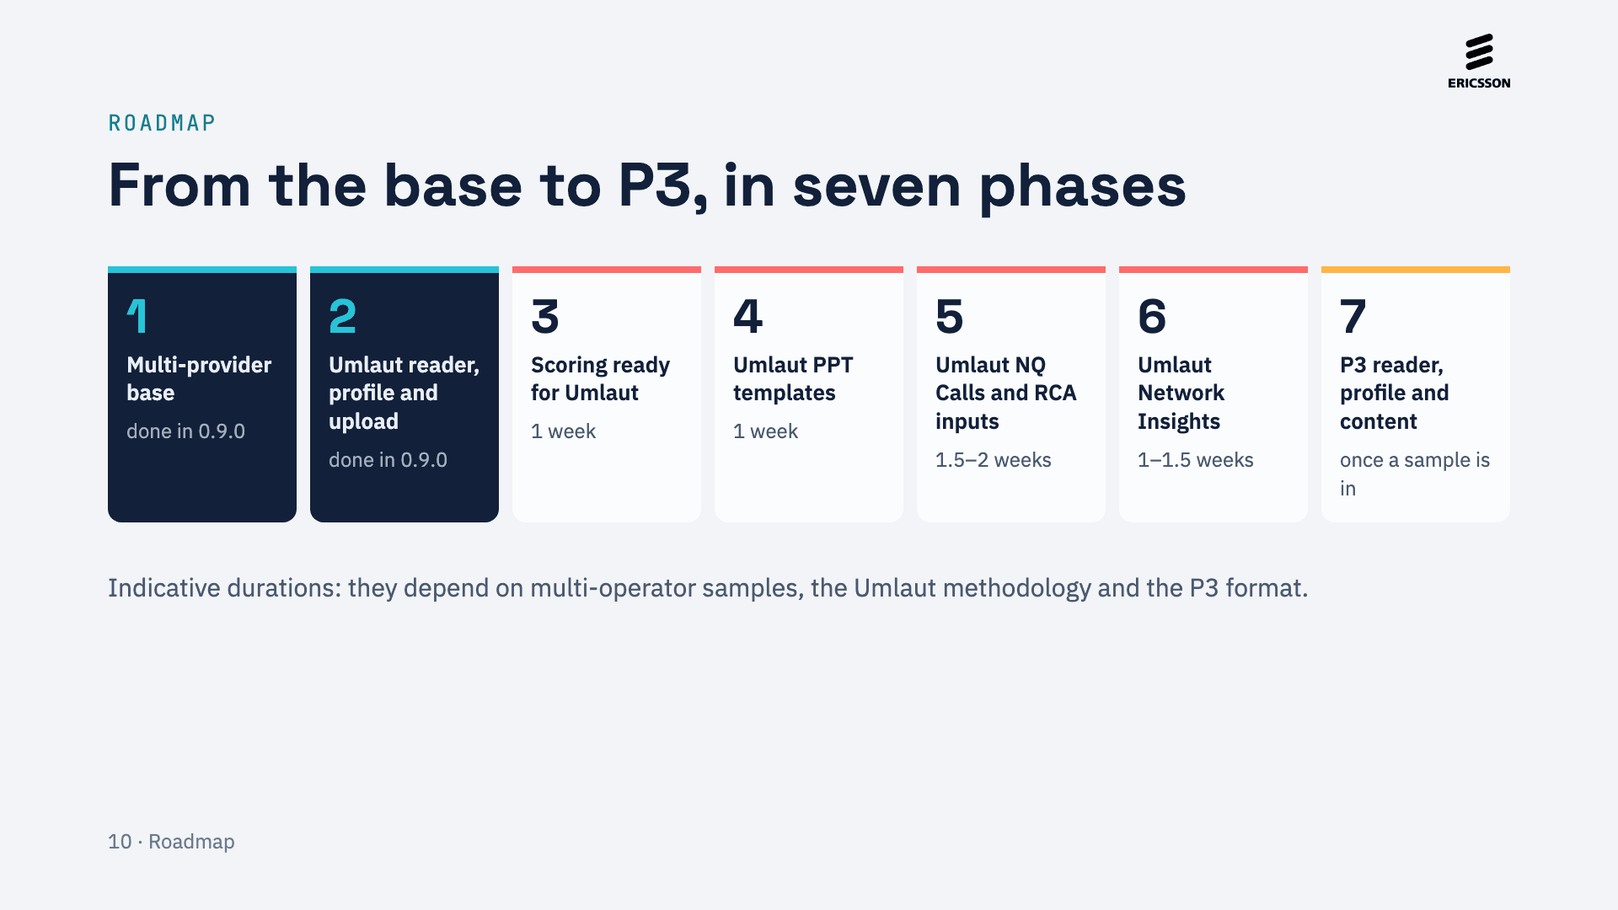
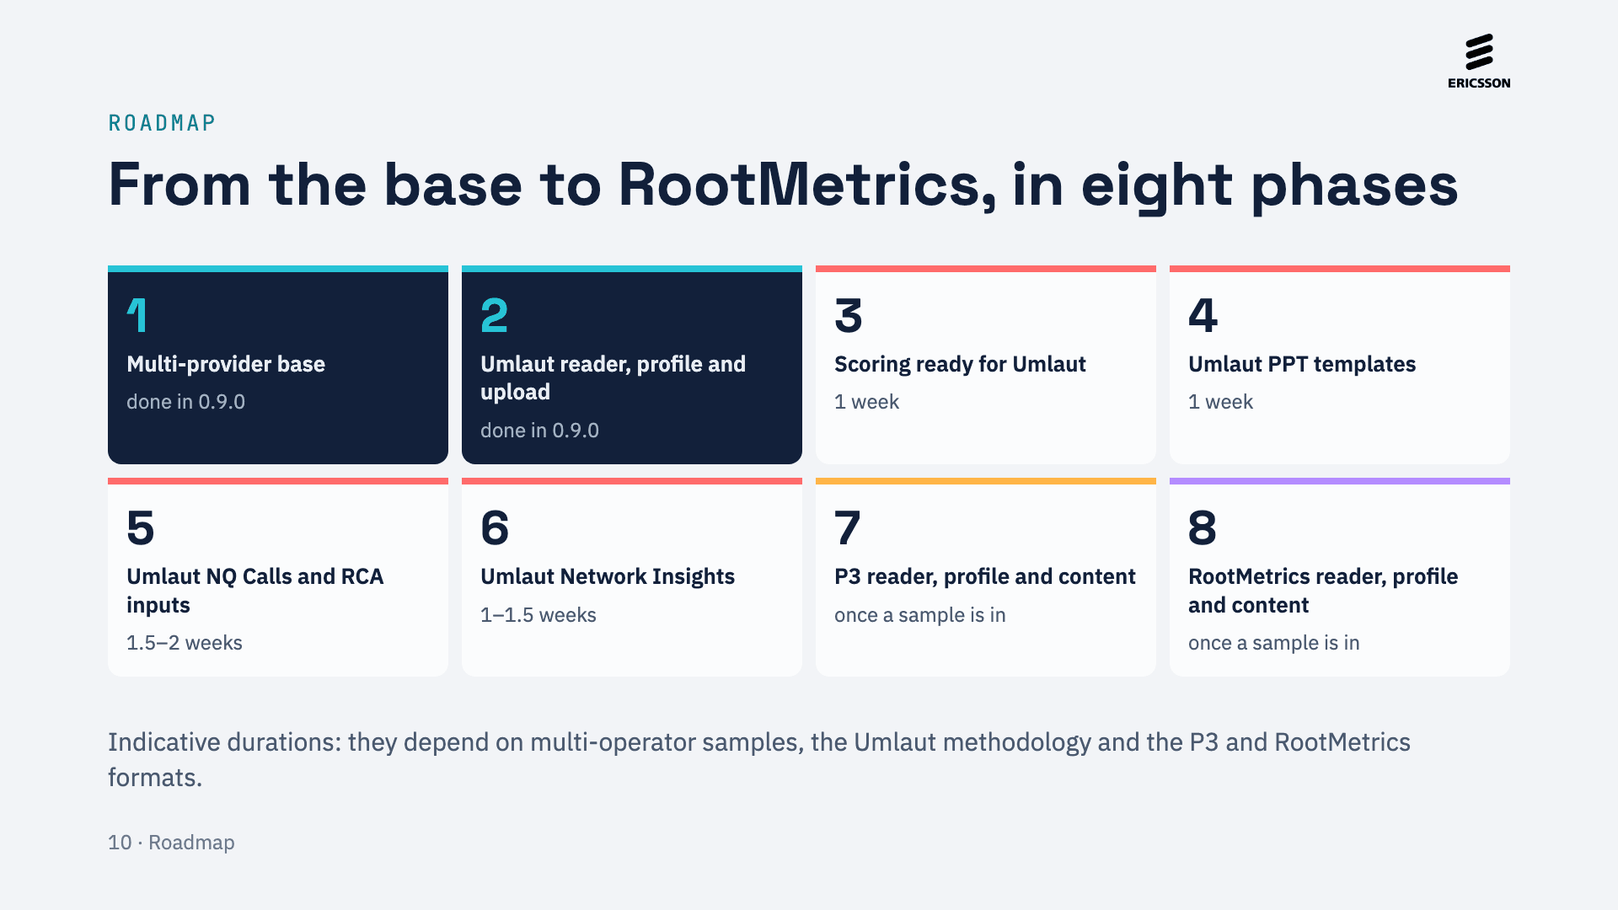
Add RootMetrics as a fourth benchmarking provider to the roadmap, the presentations and the Help
RootMetrics is planned after P3 for a future adaptation: the Benchmarking
Providers Roadmap deck shows four providers, an eighth phase and its CDR
samples among what is needed; the Roadmap and One-slider slides keep only
Umlaut CDRs under Next and list P3 and RootMetrics CDRs under Later; the
Benchmarking Providers, Roadmap and presentation chapters of the Help name it.

diff --git a/tools/presentations/build.js b/tools/presentations/build.js
@@ -1253,7 +1253,7 @@ async function roadmap(pres, files, masterName = 'CONTENT') {
     ] },
     { label: 'NEXT', color: K.blue, pin: 'TbRocket', x: 4.5, y: 4.45, card: [2.7, 5.02, 5.9, 1.52], columns: 2, items: [
       ['TbFlag', 'Germany pilot', 'First DE test campaign'],
-      ['TbArrowsExchange', 'Umlaut & P3 CDRs', 'Ingest & score both providers'],
+      ['TbArrowsExchange', 'Umlaut CDRs', 'Ingest & score with its own fields'],
       ['TbUsersGroup', 'Active Tests community', 'Their KPI & Scoring reports'],
       ['TbPhoneCheck', 'NQ Calls out of Beta', 'From Beta to every team'],
     ] },
@@ -1261,9 +1261,10 @@ async function roadmap(pres, files, masterName = 'CONTENT') {
       ['TbAntennaBars5', 'Network Insights', 'Improvements to the module'],
       ['TbMailForward', 'Automatic emails', 'Reports sent by email on their own'],
     ] },
-    { label: 'LATER', color: 'E07800', pin: 'TbClock', x: 10.7, y: 4.2, card: [8.95, 4.8, 3.5, 1.52], items: [
+    { label: 'LATER', color: 'E07800', pin: 'TbClock', x: 10.7, y: 4.2, card: [8.95, 4.8, 3.5, 1.98], items: [
       ['TbRoute', 'TEMS logs', 'Drive test logs and their reports'],
       ['TbHeartbeat', 'Health monitoring', 'Alerts & checks after each deploy'],
+      ['TbChartDots3', 'P3 & RootMetrics CDRs', 'The next benchmarking providers'],
     ] },
   ];
   for (const phase of phases) {
@@ -1295,10 +1296,11 @@ async function roadmap(pres, files, masterName = 'CONTENT') {
     + 'analytical caches, fast at any size; Tableau connected to the workspace database; and the Layer3 Logs, the parsed '
     + 'drive test logs of each campaign, whose signalling the maps of the Non-Qualified Calls, NQ Maps and the DT Analyzer RCA '
     + 'read. Next: a first pilot campaign in '
-    + 'Germany, the adaptation of the ingestion and scoring to Umlaut and P3 CDRs, the Active Tests community, so that the tool '
+    + 'Germany, the adaptation of the ingestion and scoring to Umlaut CDRs, the Active Tests community, so that the tool '
     + 'builds the KPI and Scoring reports they produce today, and Non-Qualified Calls out of Beta. Soon: improvements to '
-    + 'Network Insights and automatic emails. Later: TEMS logs with their reports, and health '
-    + 'monitoring: alerts on runs that take too long and automatic checks after every deployment. These are intentions, not '
+    + 'Network Insights and automatic emails. Later: TEMS logs with their reports, health '
+    + 'monitoring: alerts on runs that take too long and automatic checks after every deployment, and P3 and RootMetrics CDRs, '
+    + 'the next benchmarking providers, brought in with the same model as Umlaut. These are intentions, not '
     + 'dated commitments.');
 }
 
@@ -1403,9 +1405,9 @@ async function oneSlider(pres, files, masterName = 'SINGLE', sectionTitle = 'Dri
   label('ROADMAP', 8.15, 5.72);
   const milestones = [
     { x: 8.5, y: 6.36, color: '0C9B5B', phase: 'TODAY', pin: 'TbCircleCheck', text: `${MODULE_COUNT} modules, AI Assistant` },
-    { x: 9.75, y: 6.42, color: K.blue, phase: 'NEXT', pin: 'TbRocket', text: 'Germany, Umlaut & P3' },
+    { x: 9.75, y: 6.42, color: K.blue, phase: 'NEXT', pin: 'TbRocket', text: 'Germany, Umlaut' },
     { x: 11.0, y: 6.4, color: '8C60A8', phase: 'SOON', pin: 'TbTrendingUp', text: 'Network Insights, emails' },
-    { x: 12.2, y: 6.4, color: 'E07800', phase: 'LATER', pin: 'TbClock', text: 'TEMS logs, health' },
+    { x: 12.2, y: 6.4, color: 'E07800', phase: 'LATER', pin: 'TbClock', text: 'TEMS, health, P3, RootMetrics' },
   ];
   for (const milestone of milestones) {
     text(slide, milestone.phase, { x: milestone.x - 0.6, y: 6.0, w: 1.2, h: 0.2, fontSize: 9.5, bold: true, color: milestone.color, align: 'center', charSpacing: 1 });
@@ -1420,8 +1422,8 @@ async function oneSlider(pres, files, masterName = 'SINGLE', sectionTitle = 'Dri
     + 'benchmarking, the NQ team, troubleshooting and technical and executive reporting, on an enterprise platform on AWS with '
     + `roles, isolated workspaces, automated backups, a Ticket Center, a ${STATS.chapters}-chapter Help and ${STATS.tests} `
     + 'automated tests. Roadmap: today the columnar store on DuckDB, Tableau connected, the AI Assistant and GenAI slide comments and the Layer3 '
-    + 'Logs on the maps and the RCA of the Non-Qualified Calls; next the Germany pilot, Umlaut and P3 CDRs and the Active '
-    + 'Tests community; then Network Insights and automatic emails; later TEMS logs and health monitoring.');
+    + 'Logs on the maps and the RCA of the Non-Qualified Calls; next the Germany pilot, Umlaut CDRs and the Active '
+    + 'Tests community; then Network Insights and automatic emails; later TEMS logs, health monitoring and P3 and RootMetrics CDRs.');
 }
 
 // The colours and fonts of the theme of a written deck (pptxgenjs writes Office's own).
@@ -1443,9 +1445,9 @@ async function applyTheme(file, theme) {
 // ------------------------------------------------------------------------------------- decks of their own design
 // Decks in a design of their own: a picture of each slide and slides.json with their order, section, title and speaker
 // notes. benchmarking-providers/ keeps those of the adaptation of the tool to the CDRs of benchmarking providers other than
-// NetCheck (Umlaut first, then P3), with the Ericsson logo at the top right; module_decks.js draws the others when the
-// presentations are generated: the deck of every main module from the content.js of its folder, in the order of its
-// tabs, and the DT Analyzer RCA of Non-Qualified Calls from its slides.html.
+// NetCheck (Umlaut first, then P3 and RootMetrics), with the Ericsson logo at the top right; module_decks.js draws the
+// others when the presentations are generated: the deck of every main module from the content.js of its folder, in the
+// order of its tabs, and the DT Analyzer RCA of Non-Qualified Calls from its slides.html.
 const { DECKS: MODULE_DECK_IDS, DRAWN, draw } = require('./module_decks.js');
 
 function imageDeck(dir) {
@@ -1533,11 +1535,11 @@ function presentationsOf(decks) {
       description: 'The most important of the tool in a single slide: figures, modules, teams, platform and what comes next.',
       sections: [{ title: 'In one slide', slides: ['DriveTest Analyzer in one slide'] }] },
     { id: 'roadmap', title: 'DriveTest Analyzer — Roadmap', file: 'roadmap.pptx', download: 'DriveTest Analyzer - Roadmap.pptx',
-      description: 'What comes next: Umlaut CDRs, the Active Tests community, scale-out and speed on AWS, PostgreSQL and health monitoring.',
+      description: 'What comes next: Umlaut, P3 and RootMetrics CDRs, the Active Tests community, scale-out and speed on AWS, PostgreSQL and health monitoring.',
       sections: [{ title: 'Roadmap', slides: ['Roadmap — what comes next'] }] },
     { id: 'benchmarking-providers', title: decks['benchmarking-providers'].title, file: 'benchmarking-providers.pptx', drawn: true,
       download: 'DriveTest Analyzer - Benchmarking Providers Roadmap.pptx',
-      description: 'How the tool is being adapted to Umlaut and P3 CDRs and the status of each phase, how it is built inside and how it is deployed in the cloud.',
+      description: 'How the tool is being adapted to Umlaut, P3 and RootMetrics CDRs and the status of each phase, how it is built inside and how it is deployed in the cloud.',
       sections: imageSections(decks['benchmarking-providers']) },
     ...MODULE_DECK_IDS.flatMap((id) => [
       { id, title: decks[id].title, file: `${id}.pptx`, drawn: true, download: `DriveTest Analyzer - ${decks[id].name}.pptx`,

diff --git a/help/help.md b/help/help.md
@@ -17,9 +17,9 @@ Present DriveTest Analyzer with its presentations:
 
 - **Overview**, the complete deck: the tool, the teams it serves, its architecture and its platform, a slide for each module in the order of their tabs (two for Scoring & GAP Analysis) and the roadmap, closing with the one-slider.
 - **Architecture**, on two slides: the architecture of the solution, from the inputs the teams upload (CDRs, Network Inventories, Multivendor Mapping, Geospatial, Layer3 Logs and the Ericsson RCA results) through the server that processes, stores and analyses them to the web app, the reports and the emails, with the services outside the server (AI engine, map services and other DT Analyzer servers); and that of the DT Analyzer RCA, from the CDR to the Selected Cause: what it reads, its rules engine and results, the other RCA sources of the recommendation with their weights, where its results go and when it runs.
-- **Benchmarking Providers Roadmap**, in the design of its own deck: how the tool is being adapted to Umlaut and P3 CDRs and the status of each phase, how it is built inside and how it is deployed in the cloud (see [Benchmarking Providers](benchmarking-providers.md)).
+- **Benchmarking Providers Roadmap**, in the design of its own deck: how the tool is being adapted to Umlaut, P3 and RootMetrics CDRs and the status of each phase, how it is built inside and how it is deployed in the cloud (see [Benchmarking Providers](benchmarking-providers.md)).
 - **One-slider**, on a single slide: the most important of the tool, with its figures, modules, teams, platform and what comes next.
-- **Roadmap**, on a single slide: what the tool brings today, such as the AI Assistant, the columnar store on DuckDB, Tableau connected to the workspace, slide comments written by GenAI and the Layer3 Logs, and what comes next, such as the Germany pilot, Umlaut and P3 CDRs, the Active Tests community, Network Insights improvements, automatic emails, TEMS logs and health monitoring.
+- **Roadmap**, on a single slide: what the tool brings today, such as the AI Assistant, the columnar store on DuckDB, Tableau connected to the workspace, slide comments written by GenAI and the Layer3 Logs, and what comes next, such as the Germany pilot, Umlaut CDRs, the Active Tests community, Network Insights improvements, automatic emails, TEMS logs, health monitoring and P3 and RootMetrics CDRs.
 
 Select a presentation to open it in the slide viewer (its slides on the left and, below the slide, the zoom buttons and **▶ Slideshow**, the arrows of the previous and next slide, **Close** and **Download PowerPoint**; the wheel and the arrow keys also change slide, Ctrl/Cmd+wheel zooms and Escape closes it; on a phone or tablet, swipe the slide to change it, pinch it to zoom and double-tap it for the whole slide, and the viewer fits the part of the screen the browser leaves visible, with the arrows of the slides first), play it full screen with **▶ Slideshow**, choosing the seconds per slide and the transition, or download it with **Download PowerPoint**. **Copy link**, on each card and beside **Close** in the viewer, copies the short link of the presentation (in the viewer, of the slide shown), such as `/presentations/full-presentation?slide=3`, to send it: opening it opens the presentation at that slide in the slide viewer of [Product Presentations](presentations.md), also without signing in. The link has the **Public address** of the server when [Application Config](app-config.md) has one, otherwise the address the application was opened with. Where the link is shared (WhatsApp, Teams, Slack, Outlook…), its preview shows the title of the presentation, its description and the picture of that slide (the link of [Product Presentations](presentations.md), the cover of the Full Presentation), when the app can reach the server; WhatsApp on Android opens no link with an IP address (nor shows its preview), so give the server a name and save it as its public address. While a presentation is open, the address of the page is that link too. The server generates every presentation, with the pictures of its slides, always in the background, so the application never waits for them: at its start when one is missing (until it is ready, the Help says it is coming), again when their figures or the generator change, and on demand with **Regenerate Presentations** in [Super Admin → Presentations](super-admin.md#presentations). The figures of the Overview, the One-slider and the Roadmap are live: those of the workspaces chosen there.
 
@@ -93,7 +93,7 @@ full-presentation
 | Managing the PPT Templates of a workspace | [PPT Designer → PPT Templates](ppt-designer.md#ppt-templates) |
 | Reviewing application and workspace activity | [App Logs](app-logs.md) |
 | Presenting the tool to an audience | [Presentations](#presentations) |
-| Following the adaptation to Umlaut and P3 CDRs | [Benchmarking Providers](benchmarking-providers.md) |
+| Following the adaptation to Umlaut, P3 and RootMetrics CDRs | [Benchmarking Providers](benchmarking-providers.md) |
 
 ## Documentation map
 
@@ -119,7 +119,7 @@ full-presentation
 - [Super Admin](super-admin.md) — users and their access, Interface Settings and databases.
 - [Project Structure](project-structure.md) — source/browser layers, database ownership, persistent storage, caches and generated output.
 - [Roadmap](roadmap.md) — current limitations and planned work, also as a presentation.
-- [Benchmarking Providers](benchmarking-providers.md) — the adaptation to Umlaut and P3 CDRs: its status and the multi-provider model, also as a presentation, with the Umlaut CDR Compatibility and P3 CDR Compatibility reports below it.
+- [Benchmarking Providers](benchmarking-providers.md) — the adaptation to Umlaut, P3 and RootMetrics CDRs: its status and the multi-provider model, also as a presentation, with the Umlaut CDR Compatibility and P3 CDR Compatibility reports below it.
 
 ## Fast troubleshooting
 

diff --git a/help/presentations.md b/help/presentations.md
@@ -8,9 +8,9 @@ Present DriveTest Analyzer with its presentations:
 
 - **Overview**, the complete deck: the tool, the teams it serves, its architecture and its platform, a slide for each module in the order of their tabs (two for Scoring & GAP Analysis) and the roadmap, closing with the one-slider.
 - **Architecture**, on two slides: the architecture of the solution, from the inputs the teams upload (CDRs, Network Inventories, Multivendor Mapping, Geospatial, Layer3 Logs and the Ericsson RCA results) through the server that processes, stores and analyses them to the web app, the reports and the emails, with the services outside the server (AI engine, map services and other DT Analyzer servers); and that of the DT Analyzer RCA, from the CDR to the Selected Cause: what it reads, its rules engine and results, the other RCA sources of the recommendation with their weights, where its results go and when it runs.
-- **Benchmarking Providers Roadmap**, in the design of its own deck: how the tool is being adapted to Umlaut and P3 CDRs and the status of each phase, how it is built inside and how it is deployed in the cloud (see [Benchmarking Providers](benchmarking-providers.md)).
+- **Benchmarking Providers Roadmap**, in the design of its own deck: how the tool is being adapted to Umlaut, P3 and RootMetrics CDRs and the status of each phase, how it is built inside and how it is deployed in the cloud (see [Benchmarking Providers](benchmarking-providers.md)).
 - **One-slider**, on a single slide: the most important of the tool, with its figures, modules, teams, platform and what comes next.
-- **Roadmap**, on a single slide: what the tool brings today, such as the AI Assistant, the columnar store on DuckDB, Tableau connected to the workspace, slide comments written by GenAI and the Layer3 Logs, and what comes next, such as the Germany pilot, Umlaut and P3 CDRs, the Active Tests community, Network Insights improvements, automatic emails, TEMS logs and health monitoring.
+- **Roadmap**, on a single slide: what the tool brings today, such as the AI Assistant, the columnar store on DuckDB, Tableau connected to the workspace, slide comments written by GenAI and the Layer3 Logs, and what comes next, such as the Germany pilot, Umlaut CDRs, the Active Tests community, Network Insights improvements, automatic emails, TEMS logs, health monitoring and P3 and RootMetrics CDRs.
 
 Select a presentation to open it in the slide viewer (its slides on the left and, below the slide, the zoom buttons and **▶ Slideshow**, the arrows of the previous and next slide, **Close** and **Download PowerPoint**; the wheel and the arrow keys also change slide, Ctrl/Cmd+wheel zooms and Escape closes it; on a phone or tablet, swipe the slide to change it, pinch it to zoom and double-tap it for the whole slide, and the viewer fits the part of the screen the browser leaves visible, with the arrows of the slides first), play it full screen with **▶ Slideshow**, choosing the seconds per slide and the transition, or download it with **Download PowerPoint**. **Copy link**, on each card and beside **Close** in the viewer, copies the short link of the presentation (in the viewer, of the slide shown), such as `/presentations/full-presentation?slide=3`, to send it: opening it opens the presentation at that slide in the slide viewer of this chapter, also without signing in. The link has the **Public address** of the server when [Application Config](app-config.md) has one, otherwise the address the application was opened with. Where the link is shared (WhatsApp, Teams, Slack, Outlook…), its preview shows the title of the presentation, its description and the picture of that slide (the link of this chapter, the cover of the Full Presentation), when the app can reach the server; WhatsApp on Android opens no link with an IP address (nor shows its preview), so give the server a name and save it as its public address. While a presentation is open, the address of the page is that link too. The server generates every presentation, with the pictures of its slides, always in the background, so the application never waits for them: at its start when one is missing (until it is ready, the Help says it is coming), again when their figures or the generator change, and on demand with **Regenerate Presentations** in [Super Admin → Presentations](super-admin.md#presentations). The figures of the Overview, the One-slider and the Roadmap are live: those of the workspaces chosen there.
 

diff --git a/help/benchmarking-providers.md b/help/benchmarking-providers.md
@@ -1,9 +1,9 @@
 # Benchmarking providers
 
-DriveTest Analyzer was built for the CDRs of NetCheck. It is being adapted to the CDRs of other benchmarking providers, Umlaut first and then P3, without losing any feature and without translating their CDRs into NetCheck names. This chapter describes the status of that adaptation and the model it follows; the compatibility report of each provider, below it in Help Navigation, compares its CDRs with NetCheck CDRs.
+DriveTest Analyzer was built for the CDRs of NetCheck. It is being adapted to the CDRs of other benchmarking providers, Umlaut first, then P3 and later RootMetrics, without losing any feature and without translating their CDRs into NetCheck names. This chapter describes the status of that adaptation and the model it follows; the compatibility report of each provider, below it in Help Navigation, compares its CDRs with NetCheck CDRs.
 
 > [!NOTE]
-> **Available versus planned.** Today every workspace processes NetCheck CDRs. **Umlaut CDR** and **P3 CDR** appear as *coming soon* in the [CDR type](workspace-config.md#cdr-type) of a workspace until they are supported. The compatibility reports describe planned work, not features of the current release.
+> **Available versus planned.** Today every workspace processes NetCheck CDRs. **Umlaut CDR** and **P3 CDR** appear as *coming soon* in the [CDR type](workspace-config.md#cdr-type) of a workspace until they are supported; **RootMetrics** CDRs are planned after P3 and are not listed yet. The compatibility reports describe planned work, not features of the current release.
 
 ## In this guide
 
@@ -24,7 +24,7 @@ benchmarking-providers
 
 ## Adaptation status
 
-The adaptation is planned in seven phases. The durations are indicative: they depend on multi-operator samples, the Umlaut Scoring methodology and the P3 format.
+The adaptation is planned in eight phases. The durations are indicative: they depend on multi-operator samples, the Umlaut Scoring methodology and the P3 and RootMetrics formats.
 
 | Phase | Scope | Status |
 | --- | --- | --- |
@@ -35,6 +35,7 @@ The adaptation is planned in seven phases. The durations are indicative: they de
 | 5. Non-Qualified Calls and RCA | NQ = Qualifier NOT QUALIFIED, an Umlaut call key, the Umlaut values of the DT Analyzer RCA (available in every workspace) and the Ericsson RCA by the provider's call key. | Planned · 1.5–2 weeks |
 | 6. Umlaut Network Insights | The radio of the calls from their samples, NR cells by PCI + ARFCN + distance, MIMO rank and bandwidths. | Planned · 1–1.5 weeks |
 | 7. P3 | The P3 reader, profile and content, with the same model. | Once a P3 sample is available |
+| 8. RootMetrics | The RootMetrics reader, profile and content, with the same model, and its own Scoring methodology. | Once a RootMetrics sample is available |
 
 Phase 1 is available now and changes nothing for NetCheck workspaces:
 
@@ -100,5 +101,7 @@ Each provider has a compatibility report of its own, listed below Benchmarking P
 
 - [Umlaut CDR Compatibility](/documents/reports/umlaut-cdr-compatibility): the analysis of a sample Umlaut export. It compares the Umlaut files, fields and values with NetCheck CDRs: the equivalent of each of the 109 groups of NetCheck fields the tool uses (84 of them have the same data, the same data with another unit or values, or an exact calculation), what each module will have with Umlaut CDRs and what it will not, the Scoring KPIs with equivalent data, the limits of full compatibility and the open questions.
 - [P3 CDR Compatibility](/documents/reports/p3-cdr-compatibility): pending a sample of P3 CDRs; it tells what is known, what the analysis will cover and what is needed.
+
+RootMetrics will have its own report once a sample of its CDRs is available.
 
 See the [Roadmap](roadmap.md) for the other planned work.

diff --git a/help/roadmap.md b/help/roadmap.md
@@ -53,9 +53,9 @@ roadmap
 ## Planned product work
 
 - Germany pilot: a first test campaign in Germany.
-- Umlaut and P3 CDRs: workspaces of each provider that keep its field names and values, with its own Scoring methodologies, PPT templates and Non-Qualified Calls rules. [Benchmarking Providers](benchmarking-providers.md) describes the status of each phase and what each module will have with Umlaut CDRs.
+- Umlaut CDRs first, and later P3 and RootMetrics CDRs: workspaces of each provider that keep its field names and values, with its own Scoring methodologies, PPT templates and Non-Qualified Calls rules. [Benchmarking Providers](benchmarking-providers.md) describes the status of each phase and what each module will have with Umlaut CDRs.
 - Active Tests community: build with the tool the KPI and Scoring reports it generates today.
-- Non-Qualified Calls: confirm the NQ definition (currently every result other than Completed in NetCheck CDRs; in Umlaut CDRs, the calls and tests marked NOT QUALIFIED), the Umlaut and P3 values of the DT Analyzer RCA, and take the module out of Alpha.
+- Non-Qualified Calls: confirm the NQ definition (currently every result other than Completed in NetCheck CDRs; in Umlaut CDRs, the calls and tests marked NOT QUALIFIED), the Umlaut, P3 and RootMetrics values of the DT Analyzer RCA, and take the module out of Alpha.
 - Configuration datasets ingestion to enrich CDR dataset and combine them to extract combined info using SQL Queries or Report Templates.
 - Additional validated KPI/chart contracts.
 - Network Insights improvements.

diff --git a/CHANGELOG.md b/CHANGELOG.md
@@ -22,6 +22,7 @@
 - **Scoring & GAP Analysis — Context filters kept (ticket #114):** the Calculation panel keeps and restores the **Operator_Vendor**, **Vendor_Operator** and **Cluster** filters too (they came back empty, so a later calculation included every vendor), each user keeps their own panel selection in the workspace instead of sharing one, a note under the Context filters explains how to score some vendors of one operator, and the App Event of each calculation records its filters, Split by, GAP reference and methodology.
 
 #### 📚 Documentation:
+- **Benchmarking Providers and Roadmap — RootMetrics:** RootMetrics is a fourth benchmarking provider, planned after P3 for a future adaptation: the Benchmarking Providers chapter and the Benchmarking Providers Roadmap presentation (four providers, an eighth phase for its reader, profile and content, and its CDR samples among what is needed), the Roadmap chapter and the Roadmap and One-slider presentations include it, with Umlaut CDRs under Next and P3 and RootMetrics CDRs under Later.
 
 ---
 
